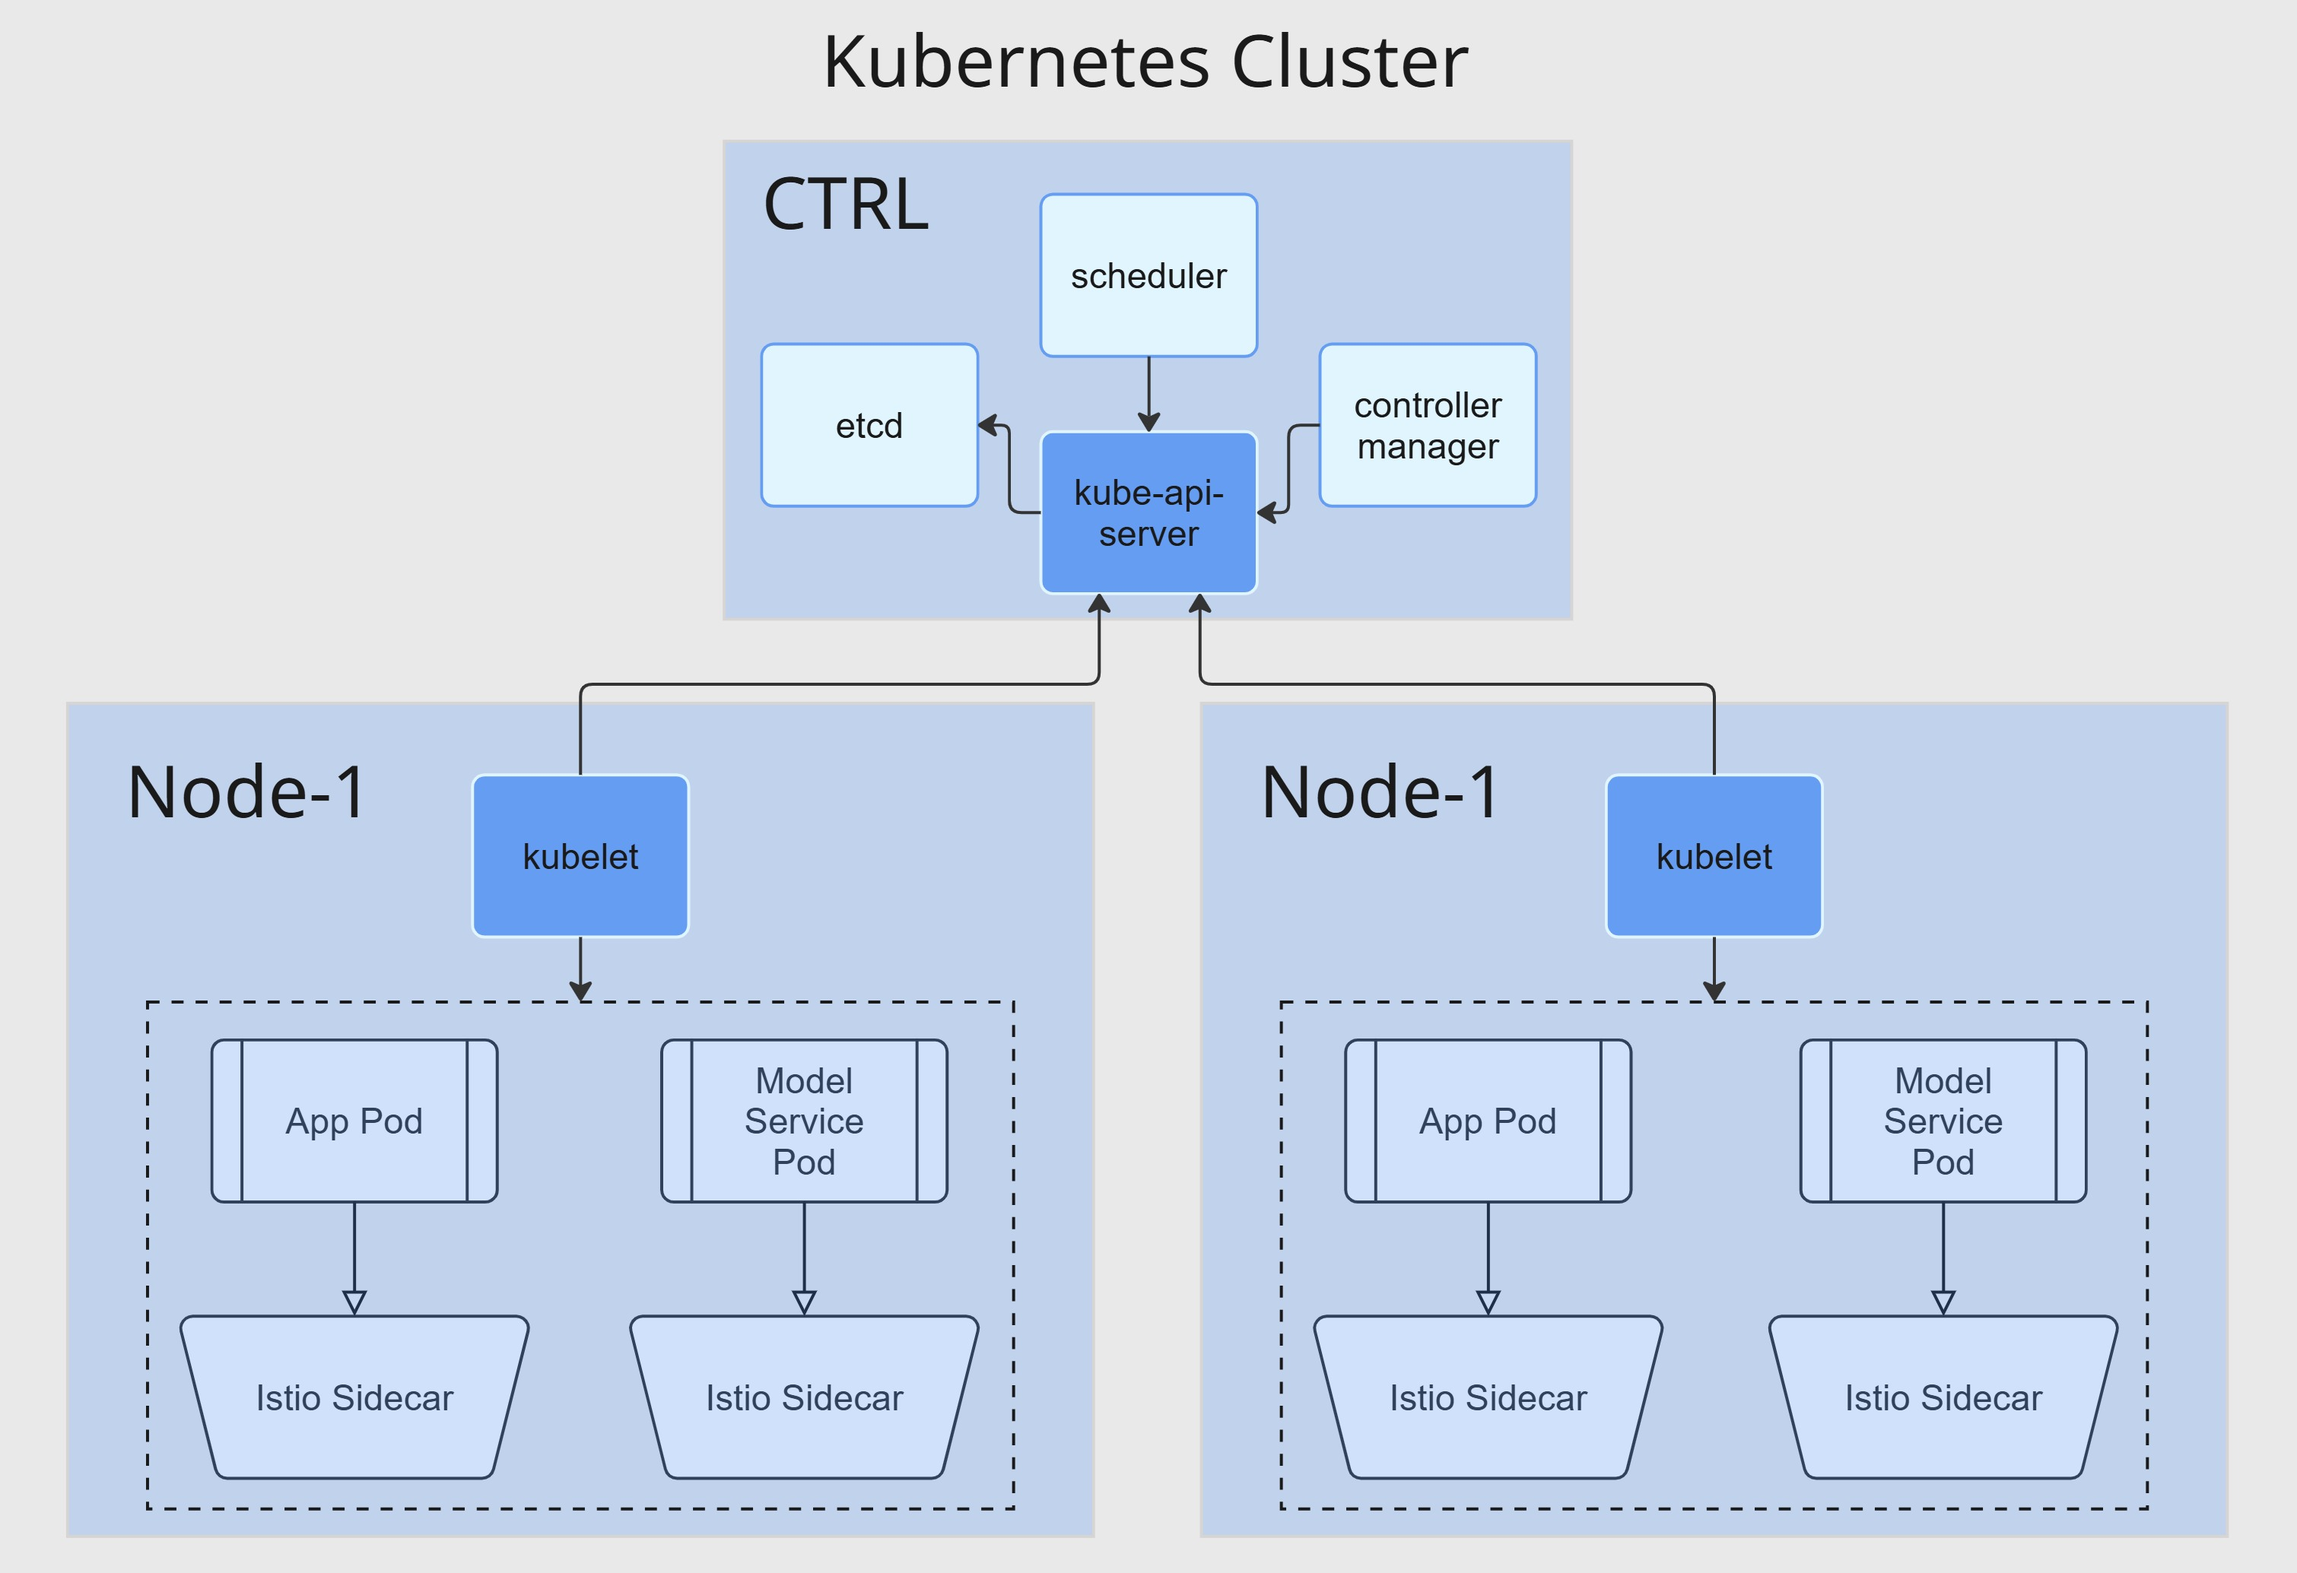
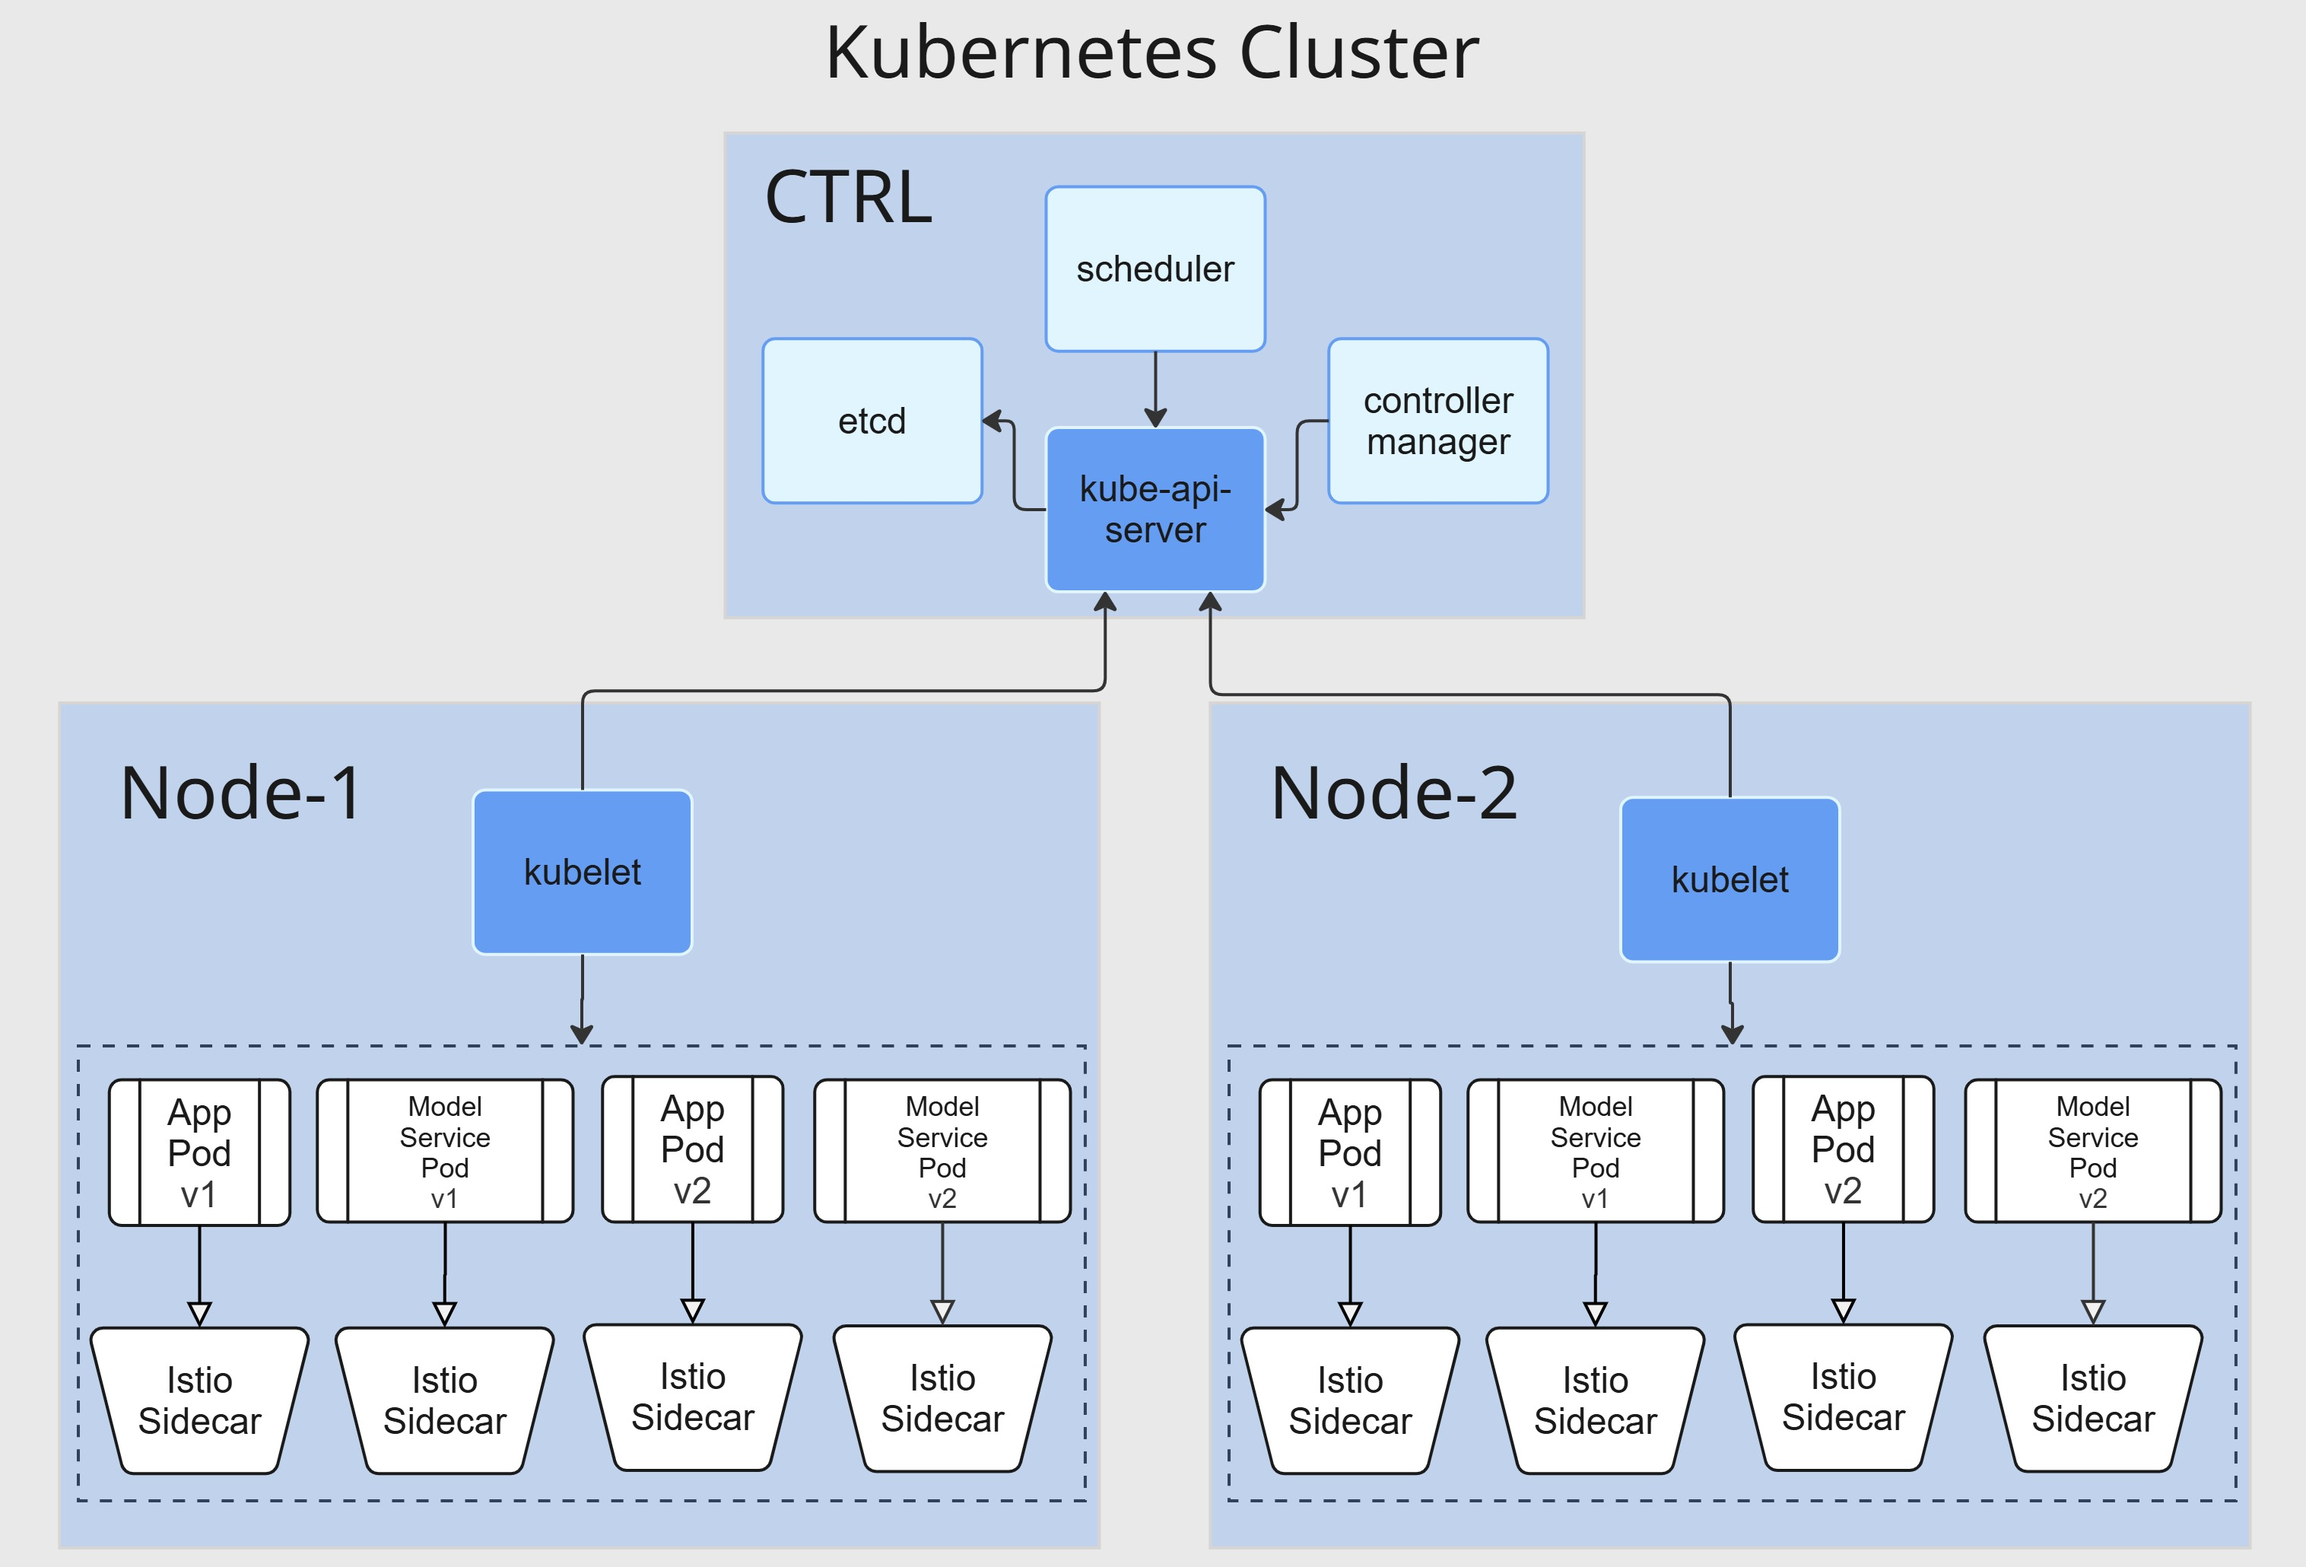
Update files (#53)
* Update visualizations and docs

* Update README

diff --git a/README.md b/README.md
@@ -106,6 +106,8 @@ The Ansible playbooks are located in the `operation/ansible-provisioning` direct
 
 ### Usage Instructions
 
+First, upload your public SSH key to the `ssh_keys/` directory. This key will be used to access the VMs.
+
 To provision the Kubernetes cluster:
 
 ```bash
@@ -139,8 +141,9 @@ To setup the dashboard once the kubernetes cluster is provisoned:
 cd operation
 
 # Run the finalization playbook
+# Update PATH to your private key stored in your device (should be matched to a registered public key)
 ansible-playbook -u vagrant -i 192.168.56.100, \
-                 --private-key=~/.ssh/id_ed25519 \ # or the PATH to your private key (should be matched to a registered public key)
+                 --private-key=~/.ssh/id_ed25519 \
                  ansible-provisioning/finalization.yaml
 
 # Get a token to access the dashboard
@@ -242,7 +245,19 @@ minikube tunnel
 for i in `seq 1 100`; do curl 'http://localhost/api/submit' -H 'Content-Type: application/json' -H 'Host: sentiment-app.local' --data-raw '{"text":"review"}'; done
 ```
 
+### Grafana Dashboard
+The Helm chart includes a Grafana dashboard for monitoring the sentiment analysis application. The dashboard provides insights into:
+- Total number of submissions received
+- Number of active submissions not yet verified
+- Rate of total number of submissions received
+- Average number of active submissions not yet verified
+- Count sentiment and verified combinations over time
 
+The dashboard is automatically configured when the Helm chart is deployed with monitoring enabled. You can access it at [http://grafana.local](http://grafana.local) after adding the entry to your `/etc/hosts` file.
+
+A visualization of the Grafana dashboard can be seen below:
+
+![Grafana Dashboard Screenshot](docs/grafana-sentiment-experiment.jpg)
 
 ##### Uninstalling the Chart
 
@@ -378,18 +393,6 @@ Links to the repositories used in this project:
 - [app](https://github.com/remla25-team5/app)
 - [model-training](https://github.com/remla25-team5/model-training)
 - [lib-version](https://github.com/remla25-team5/lib-version)
-
-## Current status
-
-✅ Assignment 1
-
-✅ Assignment 2
-
-✅ Assignment 3
-
-✅ Assignment 4
-
-✅ Assignment 5
 
 ### Use of Generative AI
 

diff --git a/docs/deployment.md b/docs/deployment.md
@@ -24,9 +24,13 @@ Each node runs:
 
 Each node hosts multiple Pods, specifically:
 
-- **App Pod**: Contains the frontend application services.
+- **App Pod v1**: Contains version 1 of the frontend application services.
 
-- **Model Service Pod**: Contains the ML model services.
+- **Model Service Pod v1**: Contains version 1 of the ML model services.
+
+- **App Pod v2**: Contains version 2 of the frontend application services.
+
+- **Model Service Pod v2**: Contains version 2 of the ML model services.
 
 Each pod is accompanied by an **Istio Sidecar Proxy**, automatically injected by Istio, to enable service mesh capabilities like traffic routing.
 

diff --git a/docs/continuous-experimentation.md b/docs/continuous-experimentation.md
@@ -55,13 +55,7 @@ A **Grafana dashboard** is used to visualize experiment data and monitor impact 
 - **Submission and verification counts** per version
 - **Statistical test results** to support decision-making
 
-These visualizations help determine whether the experimental version shows meaningful improvement.
-
-### Example Dashboard
-
-![Grafana Dashboard Screenshot](grafana-sentiment-experiment.jpg)
-
-### Agreement Rate Comparison
+These visualizations help determine whether the experimental version shows meaningful improvement.  The exact visualization can be seen below:
 
 ![Agreement Rate Comparison](agreement-rate-comparison.jpg)
 
